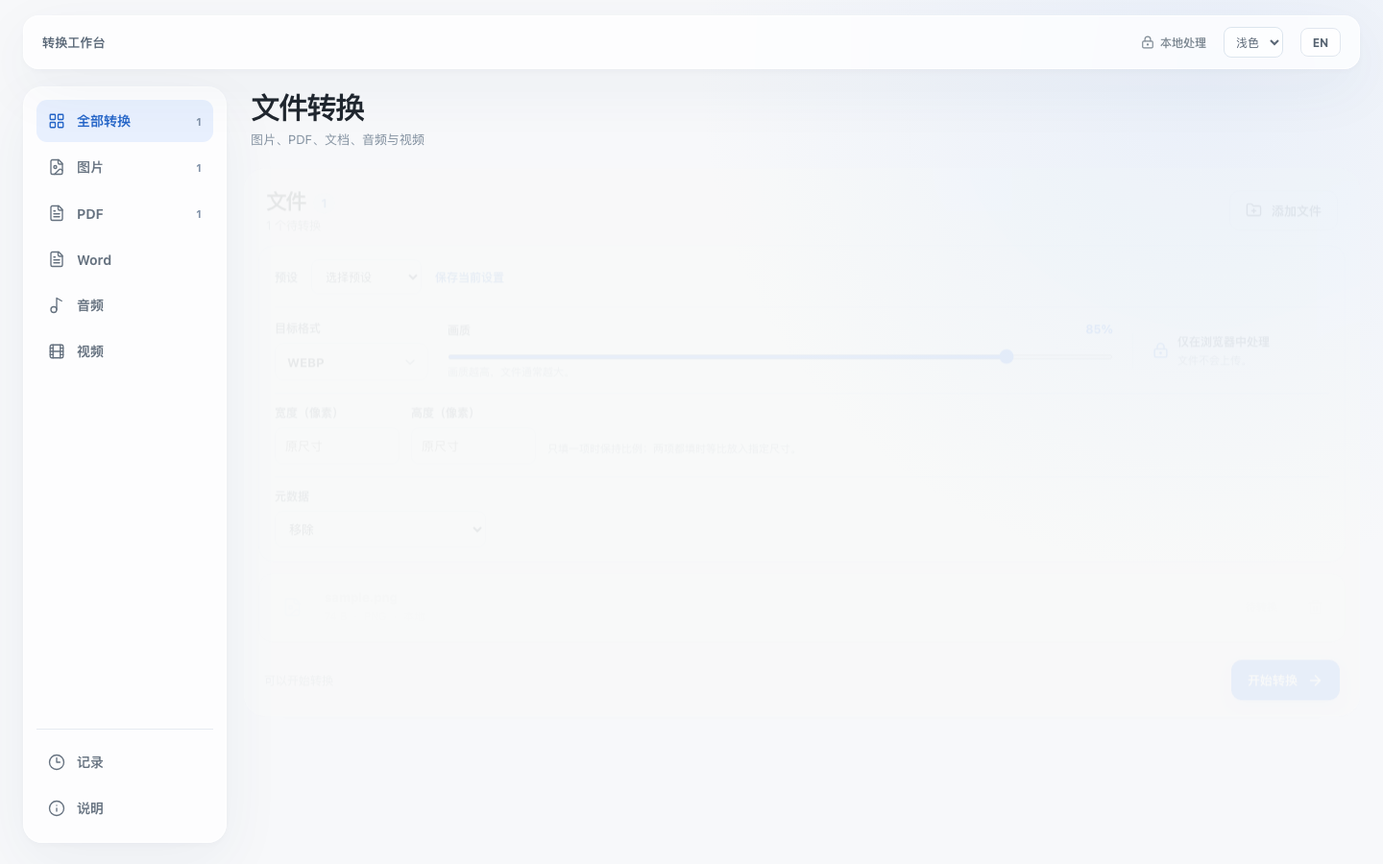
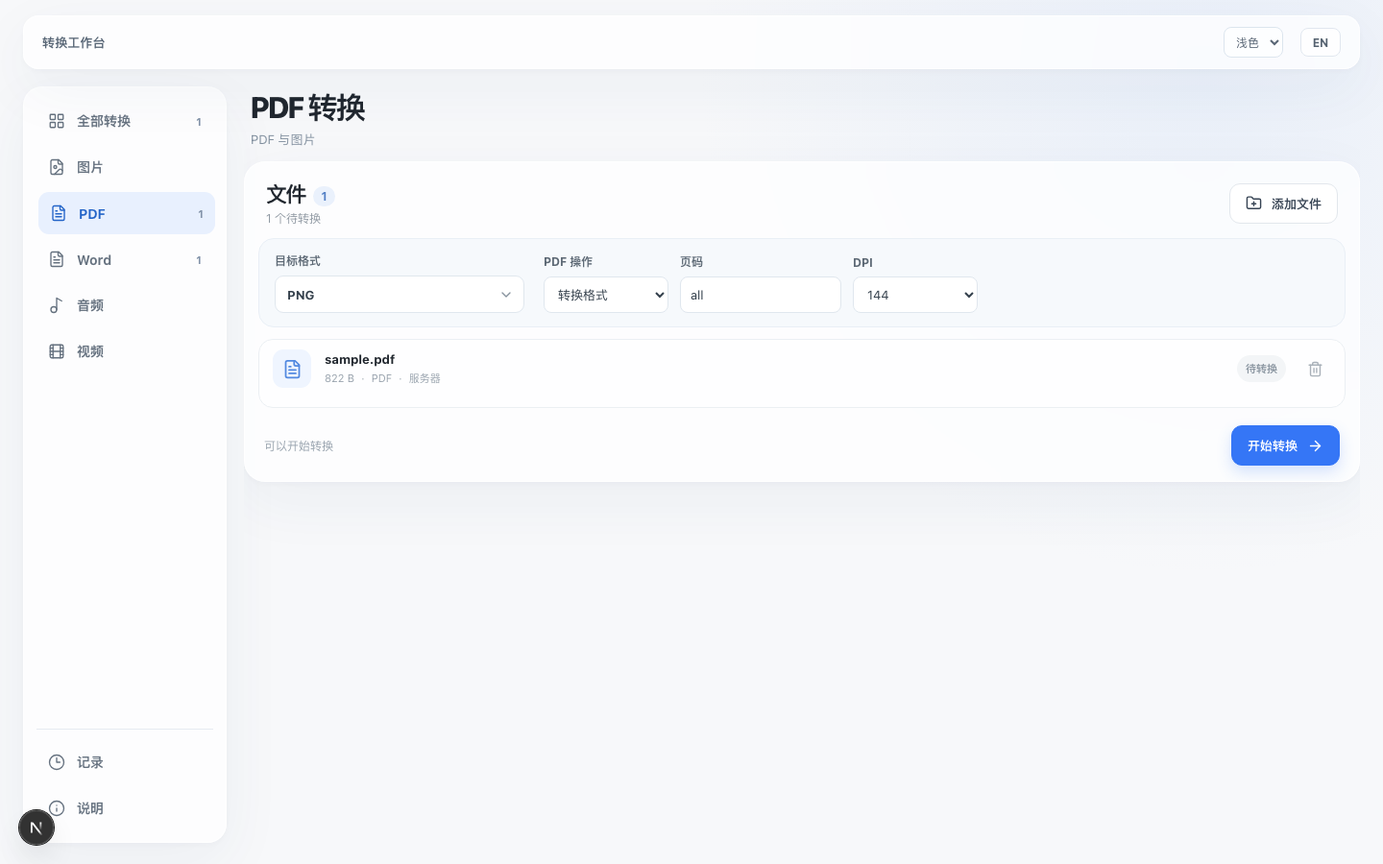
Refine PDF settings layout and dark theme

diff --git a/apps/web/src/app/globals.css b/apps/web/src/app/globals.css
@@ -39,12 +39,11 @@ h1,h2{letter-spacing:-.065em}
 .workspace{width:min(980px,calc(100% - 42px));margin:0 auto;border-radius:25px;overflow:hidden;animation:workspace-in .32s ease-out both}
 .workspace-top{padding:27px 30px 24px;display:flex;align-items:center;justify-content:space-between;gap:20px}
 .workspace-top h2{font-size:27px;margin:7px 0 2px}.workspace-top p{color:#9099a3;font-size:13px;margin:0}.count-badge{font:700 12px -apple-system,BlinkMacSystemFont,'Segoe UI',sans-serif;letter-spacing:0;vertical-align:middle;padding:3px 8px;border-radius:20px;background:#eaf1fc;color:#527fc5;margin-left:5px}
-.settings-panel{margin:0 18px 16px;background:#f6f9fc;border:1px solid #e9eff6;border-radius:16px;padding:17px 18px;display:grid;grid-template-columns:180px 1fr 225px;align-items:center;gap:25px}
+.settings-panel{margin:0 18px 16px;background:#f6f9fc;border:1px solid #e9eff6;border-radius:16px;padding:17px 18px;display:grid;grid-template-columns:minmax(180px,260px) minmax(0,1fr);align-items:center;gap:25px}
 .settings-extra{grid-column:1/-1;display:flex;flex-wrap:wrap;align-items:flex-end;gap:14px;border-top:1px solid #e1e9f1;padding-top:14px}.settings-extra .setting-field{min-width:130px}.settings-extra input,.settings-extra select{height:38px;width:100%;max-width:220px;border:1px solid #e0e7ee;border-radius:8px;padding:0 10px;color:#34404c;background:#fff;font-size:13px}.settings-extra small{font-size:11px;color:#8f9aa5;padding-bottom:11px}
 .setting-field label{display:block;font-size:12px;font-weight:700;color:#5c6874;margin-bottom:7px}.quality-field label{display:flex;justify-content:space-between}.quality-field label span{color:#3277ec}
 .select-wrap{position:relative}.select-wrap select{appearance:none;width:100%;height:39px;border:1px solid #e0e7ee;background:#fff;border-radius:9px;padding:0 34px 0 12px;font-size:13px;font-weight:700;color:#34404c}.select-wrap svg{position:absolute;right:11px;top:12px;pointer-events:none;color:#86929d}
 input[type=range]{width:100%;height:5px;margin:9px 0 5px;accent-color:#3479f6;cursor:pointer}.setting-field small{display:block;color:#9aa5b0;font-size:11px}
-.setting-note{display:flex;gap:9px;align-items:center;border-left:1px solid #e1e9f1;padding-left:20px;color:#4f88de;font-size:11px;line-height:1.55}.setting-note strong{color:#4a5968;font-size:12px}.setting-note span{color:#8995a1}
 .notice{margin:0 28px 14px;display:flex;gap:8px;color:#a56b19;font-size:12px}
 .file-list{margin:0 18px;border:1px solid #ebeff3;border-radius:15px;overflow:hidden;background:rgba(255,255,255,.7)}
 .file-row{min-height:72px;padding:12px 17px;display:flex;align-items:center;gap:14px;border-top:1px solid #edf0f3;animation:row-in .22s ease-out both}.file-row:first-child{border-top:0}
@@ -61,8 +60,8 @@ input[type=range]{width:100%;height:5px;margin:9px 0 5px;accent-color:#3479f6;cu
 @keyframes row-in{from{opacity:0;transform:translateY(4px)}to{opacity:1;transform:translateY(0)}}
 @keyframes overlay-in{from{opacity:0}to{opacity:1}}
 @keyframes spin{to{transform:rotate(360deg)}}
-@media(max-width:760px){.site-header{margin-top:12px;width:calc(100% - 24px);padding:0 14px;height:59px}.site-header nav{gap:17px;margin-left:0}.hero{padding:72px 24px 39px}.hero-compact{padding-top:45px;padding-bottom:27px}.hero h1{font-size:51px}.hero-copy{font-size:14px}.drop-zone{height:340px}.workspace-top{padding:22px 20px}.settings-panel{grid-template-columns:1fr 1fr;gap:15px}.setting-note{grid-column:1/-1;border-left:0;border-top:1px solid #e1e9f1;padding:13px 0 0}.workspace-footer{padding:19px 20px;align-items:stretch;flex-direction:column;gap:15px}.progress-side{max-width:none}.footer-actions{justify-content:flex-end}.site-footer{margin:0 20px}.about-section{margin:90px auto}}
-@media(max-width:520px){.site-header nav{font-size:12px}.header-end{gap:0}.hero h1{font-size:45px}.hero-copy{line-height:1.6}.drop-zone{width:calc(100% - 26px)}.workspace{width:calc(100% - 20px);border-radius:19px}.settings-panel{grid-template-columns:1fr;margin:0 10px 12px}.setting-note{grid-column:auto}.settings-extra{gap:10px}.settings-extra .setting-field{flex:1;min-width:100px}.workspace-top h2{font-size:24px}.workspace-top .secondary-button{padding:0 10px}.file-list{margin:0 10px}.file-row{gap:6px;padding:10px}.file-icon{width:30px;height:30px}.file-name{max-width:100px}.status-pill{font-size:10px;padding:5px}.status-pill svg{width:13px}.row-target{max-width:64px;font-size:10px}.row-actions{gap:0}.icon-button{width:25px}.about-section{margin:80px auto 80px}.site-footer{font-size:11px}}
+@media(max-width:760px){.site-header{margin-top:12px;width:calc(100% - 24px);padding:0 14px;height:59px}.site-header nav{gap:17px;margin-left:0}.hero{padding:72px 24px 39px}.hero-compact{padding-top:45px;padding-bottom:27px}.hero h1{font-size:51px}.hero-copy{font-size:14px}.drop-zone{height:340px}.workspace-top{padding:22px 20px}.settings-panel{grid-template-columns:1fr 1fr;gap:15px}.workspace-footer{padding:19px 20px;align-items:stretch;flex-direction:column;gap:15px}.progress-side{max-width:none}.footer-actions{justify-content:flex-end}.site-footer{margin:0 20px}.about-section{margin:90px auto}}
+@media(max-width:520px){.site-header nav{font-size:12px}.header-end{gap:0}.hero h1{font-size:45px}.hero-copy{line-height:1.6}.drop-zone{width:calc(100% - 26px)}.workspace{width:calc(100% - 20px);border-radius:19px}.settings-panel{grid-template-columns:1fr;margin:0 10px 12px}.settings-extra{gap:10px}.settings-extra .setting-field{flex:1;min-width:100px}.workspace-top h2{font-size:24px}.workspace-top .secondary-button{padding:0 10px}.file-list{margin:0 10px}.file-row{gap:6px;padding:10px}.file-icon{width:30px;height:30px}.file-name{max-width:100px}.status-pill{font-size:10px;padding:5px}.status-pill svg{width:13px}.row-target{max-width:64px;font-size:10px}.row-actions{gap:0}.icon-button{width:25px}.about-section{margin:80px auto 80px}.site-footer{font-size:11px}}
 @media(prefers-reduced-motion:reduce){*,*::before,*::after{scroll-behavior:auto!important;transition:none!important;animation:none!important}}
 
 .theme-select{height:32px;border:1px solid #dce5ee;border-radius:8px;padding:0 8px;background:rgba(255,255,255,.7);color:#596675;font-size:12px;cursor:pointer}
@@ -73,7 +72,7 @@ input[type=range]{width:100%;height:5px;margin:9px 0 5px;accent-color:#3479f6;cu
 .history-note,.history-empty{font-size:13px;color:#778594;line-height:1.6}.history-empty{padding:18px 0}
 .history-list{margin-top:18px;border:1px solid #e4ebf1;border-radius:14px;overflow:hidden;background:rgba(255,255,255,.55)}
 .history-row{display:flex;justify-content:space-between;align-items:center;gap:14px;padding:13px 16px;border-top:1px solid #e9eef3}.history-row:first-child{border-top:0}.history-row>div{min-width:0;display:flex;flex-direction:column;gap:4px}.history-row strong{overflow:hidden;text-overflow:ellipsis;white-space:nowrap;font-size:12px}.history-row span{font-size:11px;color:#83919e}.text-button{border:0;background:transparent;color:#3974cb;font-size:12px;font-weight:650;cursor:pointer;white-space:nowrap}.text-button:hover{text-decoration:underline}
-:root[data-theme=dark]{color-scheme:dark}html[data-theme=dark] body{background:#141b25;color:#e6edf5}html[data-theme=dark] .glass{background:rgba(31,42,57,.78);border-color:rgba(123,148,178,.2);box-shadow:0 18px 55px rgba(0,0,0,.16)}html[data-theme=dark] .site-header nav a,html[data-theme=dark] .hero-copy,html[data-theme=dark] .about-section p,html[data-theme=dark] .history-note,html[data-theme=dark] .history-empty{color:#a8b7c7}html[data-theme=dark] .site-header nav .nav-active{color:#edf4fc}html[data-theme=dark] .file-list,html[data-theme=dark] .history-list{background:rgba(20,29,41,.6);border-color:#354252}html[data-theme=dark] .file-row,html[data-theme=dark] .history-row{border-color:#354252}html[data-theme=dark] input:not([type=range]),html[data-theme=dark] select,html[data-theme=dark] .select-wrap select{background:#263344;color:#e6edf5;border-color:#41536a}html[data-theme=dark] .secondary-button{background:#2a394c;color:#dce7f4;border-color:#40536b}html[data-theme=dark] .setting-note,html[data-theme=dark] .about-section,html[data-theme=dark] .site-footer{border-color:#354252}html[data-theme=dark] .setting-note strong,html[data-theme=dark] .status-pill{color:#d9e5f2}html[data-theme=dark] .status-pill{background:#354252}html[data-theme=dark] .file-icon{background:#2a3d58}html[data-theme=dark] .hero h1{color:#f2f7fc}html[data-theme=dark] .drop-zone{background:rgba(31,42,57,.78)}
+:root[data-theme=dark]{color-scheme:dark}html[data-theme=dark] body{background:#141b25;color:#e6edf5}html[data-theme=dark] .glass{background:rgba(31,42,57,.78);border-color:rgba(123,148,178,.2);box-shadow:0 18px 55px rgba(0,0,0,.16)}html[data-theme=dark] .site-header nav a,html[data-theme=dark] .hero-copy,html[data-theme=dark] .about-section p,html[data-theme=dark] .history-note,html[data-theme=dark] .history-empty{color:#a8b7c7}html[data-theme=dark] .site-header nav .nav-active{color:#edf4fc}html[data-theme=dark] .file-list,html[data-theme=dark] .history-list{background:rgba(20,29,41,.6);border-color:#354252}html[data-theme=dark] .file-row,html[data-theme=dark] .history-row{border-color:#354252}html[data-theme=dark] input:not([type=range]),html[data-theme=dark] select,html[data-theme=dark] .select-wrap select{background:#263344;color:#e6edf5;border-color:#41536a}html[data-theme=dark] .secondary-button{background:#2a394c;color:#dce7f4;border-color:#40536b}html[data-theme=dark] .about-section,html[data-theme=dark] .site-footer{border-color:#354252}html[data-theme=dark] .status-pill{color:#d9e5f2}html[data-theme=dark] .status-pill{background:#354252}html[data-theme=dark] .file-icon{background:#2a3d58}html[data-theme=dark] .hero h1{color:#f2f7fc}html[data-theme=dark] .drop-zone{background:rgba(31,42,57,.78)}
 
 /* Desktop tool layout: the page stays fixed; only long file/history lists scroll. */
 @media(min-width:761px){
@@ -96,7 +95,12 @@ input[type=range]{width:100%;height:5px;margin:9px 0 5px;accent-color:#3479f6;cu
   .drop-zone h2{margin-bottom:4px}.drop-zone p{margin-bottom:18px}.formats-line{margin-top:20px;letter-spacing:.04em}
   .workspace{width:100%;height:auto;max-height:100%;min-height:0;flex:none;display:flex;flex-direction:column;margin:0;border-radius:22px}
   .workspace-top{flex:none;padding:18px 22px 12px}.workspace-top h2{font-size:22px;margin:0 0 2px}.workspace-top p{font-size:12px}
-  .settings-panel{flex:none;max-height:42vh;overflow-y:auto;margin:0 14px 12px;padding:14px 16px;gap:13px 20px;grid-template-columns:160px minmax(150px,1fr) 205px}
+  .settings-panel{flex:none;max-height:42vh;overflow-y:auto;margin:0 14px 12px;padding:14px 16px;gap:13px 20px;grid-template-columns:minmax(160px,260px) minmax(0,1fr)}
+  .pdf-settings-layout{grid-template-columns:minmax(160px,220px) minmax(0,1fr);align-items:end}
+  .pdf-settings-layout .settings-extra{grid-column:2;grid-row:1;align-self:end;gap:8px;border-top:0;padding-top:0}
+  .pdf-settings-layout .settings-extra .setting-field{min-width:0;flex:0 1 124px}
+  .pdf-settings-layout .settings-extra .setting-field:nth-child(2){flex-basis:160px}
+  .pdf-settings-layout .quality-field{grid-column:1/-1;grid-row:2}
   .settings-extra{gap:12px;padding-top:11px}.settings-extra small{padding-bottom:8px}
   .file-list{flex:0 1 auto;min-height:72px;max-height:230px;overflow-y:auto;margin:0 14px 8px}
   .file-row{min-height:60px;padding:9px 14px}
@@ -112,3 +116,9 @@ input[type=range]{width:100%;height:5px;margin:9px 0 5px;accent-color:#3479f6;cu
 }
 html[data-theme=dark] .site-shell{background:radial-gradient(circle at 87% 8%,rgba(65,89,129,.17),transparent 35%),#141b25}
 html[data-theme=dark] .sidebar-item{color:#acbac9}html[data-theme=dark] .sidebar-item:hover{background:#304259;color:#e7f0fa}html[data-theme=dark] .sidebar-item.is-active{background:#2b466c;color:#a8cbff}html[data-theme=dark] .sidebar-secondary{border-color:#354252}html[data-theme=dark] .header-context{color:#d3dfea}html[data-theme=dark] .history-section,html[data-theme=dark] .about-section{border-color:#354252}
+
+html[data-theme=dark] .settings-panel{background:#202d3d;border-color:#35475b}
+html[data-theme=dark] .settings-extra{border-color:#394b5e}
+html[data-theme=dark] .setting-field label,html[data-theme=dark] .preset-field>label{color:#c7d4e1}
+html[data-theme=dark] .setting-field small,html[data-theme=dark] .settings-extra small{color:#a8b9c9}
+html[data-theme=dark] .preset-field{border-color:#394b5e}

diff --git a/apps/web/src/components/workspace.tsx b/apps/web/src/components/workspace.tsx
@@ -1,7 +1,7 @@
 "use client";
 
 import { useCallback, useEffect, useRef, useState } from "react";
-import { ArrowDownToLine, ArrowRight, ArrowUp, ArrowDown, Check, ChevronDown, CircleAlert, FileImage, FileText, Film, FolderPlus, LockKeyhole, Music2, RotateCcw, Trash2, UploadCloud, X, LayoutGrid, Clock3, Info } from "lucide-react";
+import { ArrowDownToLine, ArrowRight, ArrowUp, ArrowDown, Check, ChevronDown, CircleAlert, FileImage, FileText, Film, FolderPlus, Music2, RotateCcw, Trash2, UploadCloud, X, LayoutGrid, Clock3, Info } from "lucide-react";
 import { IMAGE_FORMATS } from "@core/capabilities";
 import { outputFilename } from "@core/filename";
 import { detectFileType } from "@detection/detect";
@@ -376,7 +376,6 @@ export default function Workspace() {
   const oneCategory = categories.size === 1 ? supported[0]?.descriptor.category : null;
   const bulkOptions = supported.length ? optionsForMode(supported[0].descriptor, availableFormats, serverCapabilities, view).filter(option => supported.every(job => optionsForMode(job.descriptor, availableFormats, serverCapabilities, view).includes(option))) : availableFormats;
   const shownOptions = oneCategory === "pdf" && view !== "word" && pdfOperation !== "convert" ? ["pdf"] : bulkOptions;
-  const allLocal = supported.length > 0 && supported.every(job => isLocal(job.descriptor.detectedType, job.settings.output) && job.file.size <= MAX_INPUT_SIZE && !keepMetadata);
   const groupKind = oneCategory === "pdf" && view !== "word" && pdfOperation === "merge" && supported.filter(job => job.file.size > 0).length >= 2 ? "merge" : oneCategory === "image" && format === "pdf" && supported.filter(job => job.file.size > 0).length >= 2 ? "images" : null;
   const icons = { all: LayoutGrid, image: FileImage, pdf: FileText, word: FileText, audio: Music2, video: Film, history: Clock3, about: Info };
 
@@ -406,11 +405,10 @@ export default function Workspace() {
         <button className="primary-button" onClick={() => fileInput.current?.click()}><FolderPlus size={18} /> {t.chooseFiles} <ArrowRight size={17} /></button>
       </section> : <section className="workspace glass" aria-label={t.workspace}>
         <div className="workspace-top"><div><h2>{t.yourFiles} <span className="count-badge">{visibleJobs.length}</span></h2><p>{pendingCount ? t.readyCount(pendingCount) : t.completeCount(completed.length)}{visibleJobs.length - supported.length ? ` · ${t.unsupportedCount(visibleJobs.length - supported.length)}` : ""}</p></div><button className="secondary-button" onClick={() => fileInput.current?.click()}><FolderPlus size={17} /> {t.addFiles}</button></div>
-        <div className="settings-panel">
+        <div className={`settings-panel ${oneCategory === "pdf" && view !== "word" ? "pdf-settings-layout" : ""}`}>
           {(oneCategory === "image" || oneCategory === "audio" || oneCategory === "video") && <div className="preset-field"><label htmlFor="preset">{t.preset}</label><div className="preset-controls"><select id="preset" value={presetChoice} onChange={event => { setPresetChoice(event.target.value); const preset = [...defaultPresets, ...customPresets].find(item => item.id === event.target.value); if (preset) applyPreset(preset); }} disabled={busy}><option value="">{t.choosePreset}</option>{[...defaultPresets, ...customPresets].filter(item => item.category === oneCategory && supported.every(job => optionsForMode(job.descriptor, availableFormats, serverCapabilities, view).includes(item.output))).map(item => <option key={item.id} value={item.id}>{language === "zh" ? chinesePresetNames[item.id] ?? item.name : item.name}</option>)}</select><button className="text-button" onClick={() => setSavingPreset(value => !value)} disabled={busy}>{t.savePreset}</button>{customPresets.some(item => item.id === presetChoice) && <button className="text-button" onClick={deletePreset} disabled={busy}>{t.deletePreset}</button>}</div>{savingPreset && <div className="preset-controls"><input value={newPresetName} maxLength={50} placeholder={t.presetName} onChange={event => setNewPresetName(event.target.value)} onKeyDown={event => { if (event.key === "Enter") savePreset(); if (event.key === "Escape") setSavingPreset(false); }} /><button className="text-button" onClick={savePreset} disabled={!newPresetName.trim()}>{t.save}</button></div>}</div>}
           {shownOptions.length > 0 && <div className="setting-field"><label htmlFor="format">{t.convertTo}</label><div className="select-wrap"><select id="format" value={shownOptions.includes(format) ? format : shownOptions[0]} onChange={event => { const selected = event.target.value; setFormat(selected); updateJobs(current => current.map(job => job.descriptor.category !== "unsupported" && viewAccepts(view, job.descriptor) && optionsForMode(job.descriptor, availableFormats, serverCapabilities, view).includes(selected) ? { ...job, settings: { ...job.settings, output: selected } } : job)); }} disabled={busy}>{shownOptions.map(item => <option key={item} value={item}>{item.toUpperCase()}{oneCategory === "pdf" && item === "docx" ? t.textOnly : ""}</option>)}</select><ChevronDown size={16} /></div></div>}
           {(oneCategory === "image" || (oneCategory === "pdf" && format === "jpg")) && <div className="setting-field quality-field"><label htmlFor="quality">{t.quality} <span>{quality}%</span></label><input id="quality" type="range" min="1" max="100" value={quality} onChange={event => setQuality(Number(event.target.value))} disabled={busy || format === "png" || format === "pdf"} /><small>{format === "png" || format === "pdf" ? t.pngQuality : t.otherQuality}</small></div>}
-          <div className="setting-note"><LockKeyhole size={17} /><span><strong>{allLocal ? t.localTitle : t.serverTitle}</strong><br />{allLocal ? t.localDetail : t.serverDetail}</span></div>
           {oneCategory === "image" && format !== "pdf" && <div className="settings-extra"><div className="setting-field"><label htmlFor="width">{t.width}</label><input id="width" type="number" min="0" max="12000" value={width || ""} placeholder={t.original} onChange={event => setWidth(Number(event.target.value) || 0)} disabled={busy} /></div><div className="setting-field"><label htmlFor="height">{t.height}</label><input id="height" type="number" min="0" max="12000" value={height || ""} placeholder={t.original} onChange={event => setHeight(Number(event.target.value) || 0)} disabled={busy} /></div><small>{t.resizeHint}</small></div>}
           {oneCategory === "image" && format !== "pdf" && <div className="settings-extra"><div className="setting-field"><label htmlFor="metadata">{t.metadata}</label><select id="metadata" value={keepMetadata ? "keep" : "remove"} onChange={event => setKeepMetadata(event.target.value === "keep")} disabled={busy || !serverCapabilities}><option value="remove">{t.removeMetadata}</option>{serverCapabilities && <option value="keep">{t.keepMetadata}</option>}</select></div></div>}
           {oneCategory === "pdf" && view !== "word" && <div className="settings-extra"><div className="setting-field"><label htmlFor="pdf-operation">{t.pdfAction}</label><select id="pdf-operation" value={pdfOperation} onChange={event => { const next = event.target.value; setPdfOperation(next); if (next !== "convert") { setFormat("pdf"); updateJobs(current => current.map(job => job.descriptor.category === "pdf" ? { ...job, settings: { ...job.settings, output: "pdf" } } : job)); } else { setFormat("png"); updateJobs(current => current.map(job => job.descriptor.category === "pdf" ? { ...job, settings: { ...job.settings, output: "png" } } : job)); } }} disabled={busy}><option value="convert">{t.pdfConvert}</option><option value="split">{t.pdfSplit}</option><option value="rotate">{t.pdfRotate}</option><option value="compress">{t.pdfCompress}</option>{supported.length > 1 && <option value="merge">{t.pdfMerge}</option>}</select></div>{pdfOperation !== "merge" && <div className="setting-field"><label htmlFor="pages">{t.pages}</label><input id="pages" value={pages} onChange={event => setPages(event.target.value)} placeholder={pdfOperation === "split" ? "all / 1-3;4-6" : "all / 1-3,5"} disabled={busy} /></div>}{pdfOperation === "convert" && (format === "png" || format === "jpg") && <div className="setting-field"><label htmlFor="dpi">DPI</label><select id="dpi" value={dpi} onChange={event => setDpi(Number(event.target.value))} disabled={busy}>{[72, 144, 216, 300].map(value => <option key={value}>{value}</option>)}</select></div>}{pdfOperation === "rotate" && <div className="setting-field"><label htmlFor="rotation">{t.rotation}</label><select id="rotation" value={rotation} onChange={event => setRotation(Number(event.target.value))} disabled={busy}>{[90, 180, 270].map(value => <option key={value}>{value}°</option>)}</select></div>}</div>}

diff --git a/tests/e2e/convert.spec.ts b/tests/e2e/convert.spec.ts
@@ -60,7 +60,7 @@ test("language switch rewrites the full workspace in English", async ({ page }) 
   await expect(page.getByRole("heading", { name: "File conversion" })).toBeVisible();
   await page.getByLabel("Choose files").setInputFiles({ name: "sample.png", mimeType: "image/png", buffer: png });
   await expect(page.getByLabel("Convert to")).toBeVisible();
-  await expect(page.getByText("Processed in your browser")).toBeVisible();
+  await expect(page.getByText("Processed in your browser")).toHaveCount(0);
   await page.getByRole("button", { name: "切换为中文" }).click();
   await expect(page.locator("html")).toHaveAttribute("lang", "zh-CN");
   await expect(page.getByLabel("目标格式")).toBeVisible();
@@ -83,7 +83,7 @@ test("local image resize preserves aspect ratio", async ({ page }) => {
 test("PDF to PNG and Word to PDF run on the server", async ({ page }) => {
   await page.goto("/");
   await page.getByLabel("选择文件").setInputFiles({ name: "sample.pdf", mimeType: "application/pdf", buffer: readFileSync(resolve(__dirname, "../fixtures/sample.pdf")) });
-  await expect(page.getByText("需要服务器处理", { exact: true })).toBeVisible();
+  await expect(page.locator(".file-row")).toContainText("服务器");
   await page.getByRole("button", { name: "开始转换" }).click();
   await expect(page.locator(".summary")).toContainText("1 个已完成", { timeout: 20000 });
   const pdfDownload = page.waitForEvent("download");
@@ -124,6 +124,8 @@ test("preset, history and dark theme work together", async ({ page }) => {
   await page.getByLabel("主题").selectOption("dark");
   await expect(page.locator("html")).toHaveAttribute("data-theme", "dark");
   await page.getByLabel("选择文件").setInputFiles({ name: "sample.png", mimeType: "image/png", buffer: png });
+  await expect(page.locator(".settings-panel")).toHaveCSS("background-color", "rgb(32, 45, 61)");
+  await expect(page.locator(".setting-note")).toHaveCount(0);
   await page.getByLabel("预设").selectOption("web-image");
   await expect(page.getByLabel("目标格式", { exact: true })).toHaveValue("jpg");
   await expect(page.getByLabel("宽度（像素）")).toHaveValue("1920");
@@ -156,6 +158,7 @@ test("image order controls the pages of a combined PDF", async ({ page }) => {
 });
 
 test("sidebar opens focused Word and PDF workspaces without page scrolling", async ({ page }) => {
+  await page.setViewportSize({ width: 1024, height: 768 });
   await page.goto("/");
   await page.getByRole("button", { name: /^Word/ }).click();
   await expect(page.getByRole("heading", { name: "Word 转换" })).toBeVisible();
@@ -165,6 +168,12 @@ test("sidebar opens focused Word and PDF workspaces without page scrolling", asy
   expect(await page.evaluate(() => document.documentElement.scrollHeight <= window.innerHeight + 2)).toBe(true);
   await page.getByRole("button", { name: "PDF", exact: true }).click();
   await expect(page.getByRole("heading", { name: "PDF 转换" })).toBeVisible();
+  await page.getByLabel("选择文件").setInputFiles({ name: "sample.pdf", mimeType: "application/pdf", buffer: readFileSync(resolve(__dirname, "../fixtures/sample.pdf")) });
+  const formatTop = await page.locator("#format").evaluate(element => element.getBoundingClientRect().top);
+  const operationTop = await page.locator("#pdf-operation").evaluate(element => element.getBoundingClientRect().top);
+  const dpiTop = await page.locator("#dpi").evaluate(element => element.getBoundingClientRect().top);
+  expect(Math.abs(formatTop - operationTop)).toBeLessThan(3);
+  expect(Math.abs(formatTop - dpiTop)).toBeLessThan(3);
   await page.getByRole("button", { name: "记录" }).click();
   await expect(page.getByRole("heading", { name: "历史记录" })).toBeVisible();
   await page.getByRole("button", { name: "说明" }).click();

diff --git a/apps/web/src/lib/messages.ts b/apps/web/src/lib/messages.ts
@@ -12,7 +12,7 @@ export const copy = {
     addFiles: "添加文件", readyCount: (n: number) => `${n} 个待转换`, completeCount: (n: number) => `${n} 个已完成`,
     unsupportedCount: (n: number) => `${n} 个不支持`, convertTo: "目标格式", quality: "画质",
     pngQuality: "PNG 为无损格式，此设置不生效。", otherQuality: "画质越高，文件通常越大。",
-    localTitle: "仅在浏览器中处理", localDetail: "文件不会上传。", serverTitle: "需要服务器处理", serverDetail: "所选任务会临时上传，结果 1 小时后删除。", convertProgress: "正在转换",
+    convertProgress: "正在转换",
     completeSummary: (n: number) => `${n} 个已完成`, failedSummary: (n: number) => `${n} 个失败`,
     ready: "可以开始转换", addSupported: "请选择支持的文件", downloadAll: "下载全部",
     zipLimit: "结果超过 200 MB，请逐个下载", converting: "转换中…", convertRemaining: "转换剩余文件", convertFiles: "开始转换",
@@ -39,7 +39,7 @@ export const copy = {
     addFiles: "Add files", readyCount: (n: number) => `${n} ready to convert`, completeCount: (n: number) => `${n} completed`,
     unsupportedCount: (n: number) => `${n} unsupported`, convertTo: "Convert to", quality: "Quality",
     pngQuality: "PNG is lossless; quality does not apply.", otherQuality: "Higher quality usually means a larger file.",
-    localTitle: "Processed in your browser", localDetail: "Files are never uploaded.", serverTitle: "Server processing required", serverDetail: "Selected files are uploaded temporarily and deleted after one hour.", convertProgress: "Converting",
+    convertProgress: "Converting",
     completeSummary: (n: number) => `${n} completed`, failedSummary: (n: number) => `${n} failed`,
     ready: "Ready to convert", addSupported: "Choose a supported file", downloadAll: "Download all",
     zipLimit: "Results exceed 200 MB; download individually", converting: "Converting…", convertRemaining: "Convert remaining", convertFiles: "Convert files",
